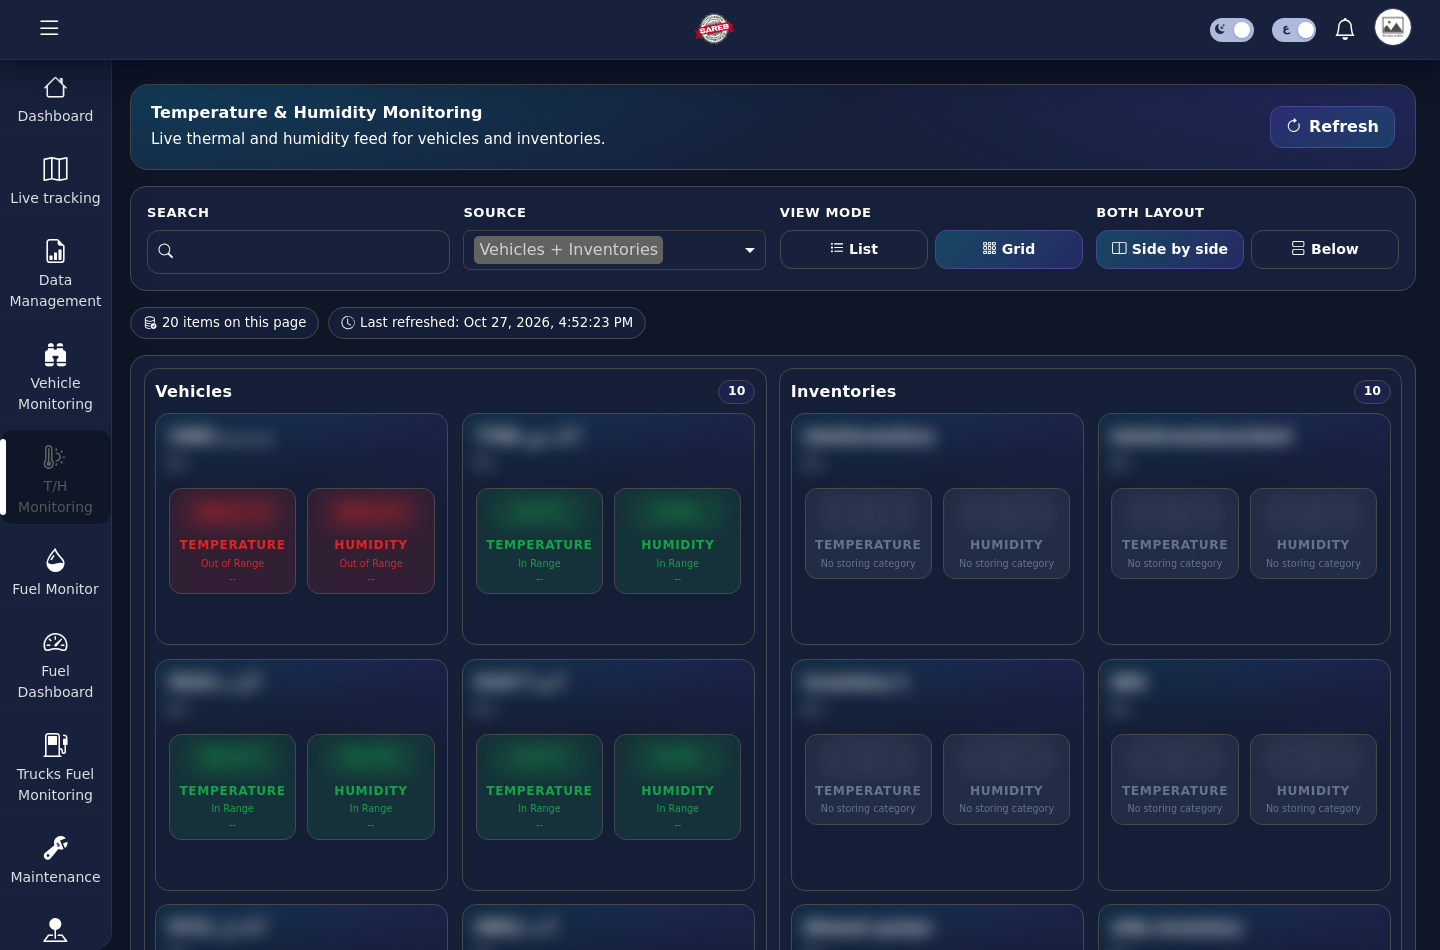
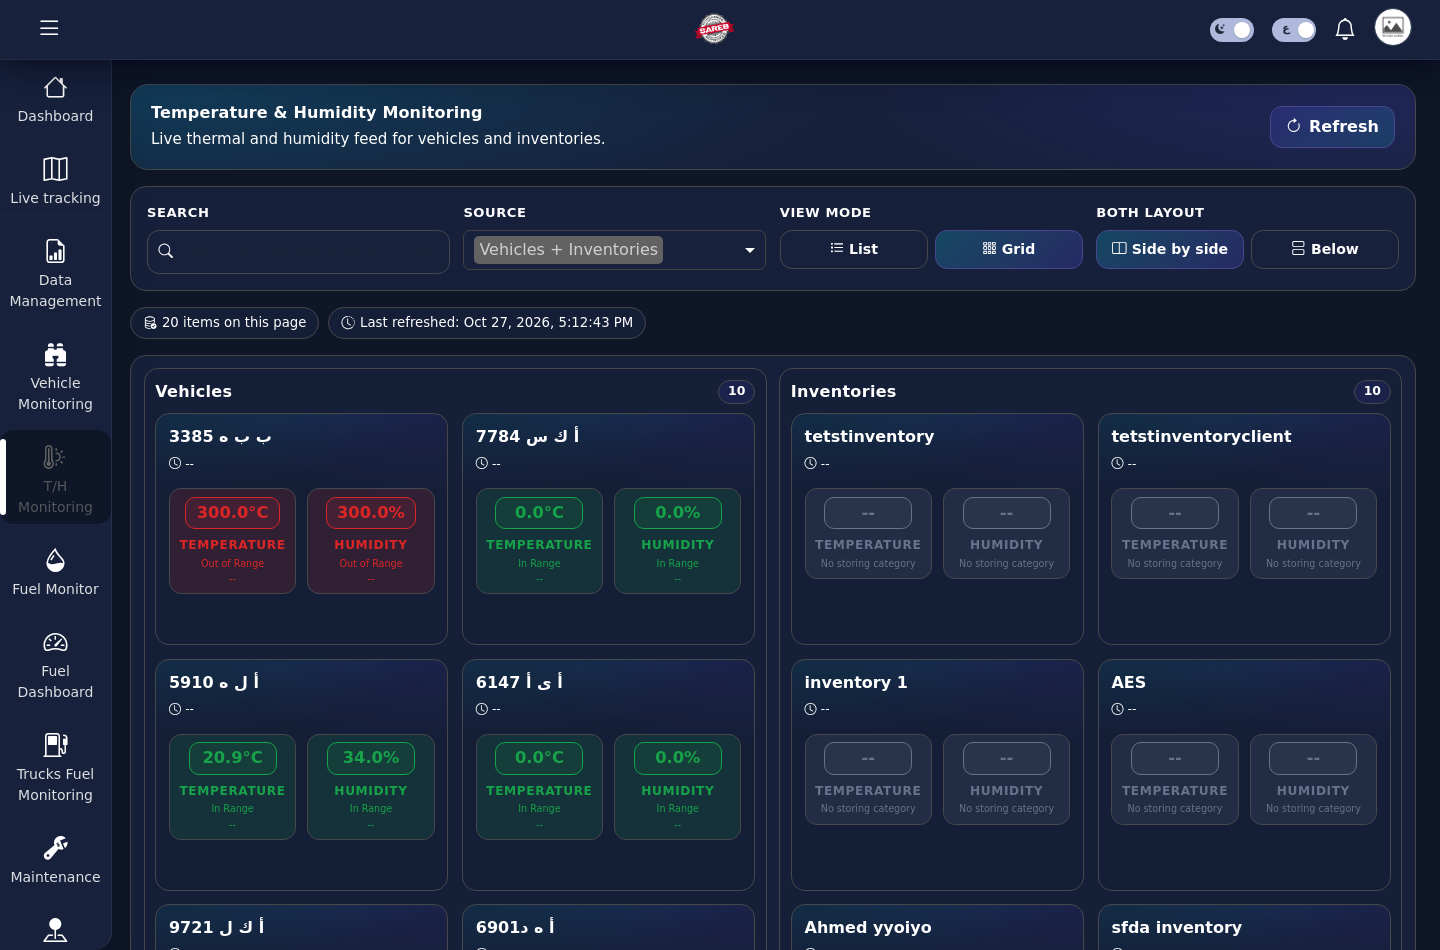
feat: add full product case studies

diff --git a/src/app/core/data/portfolio.data.ts b/src/app/core/data/portfolio.data.ts
@@ -23,6 +23,54 @@ export const SKILL_GROUPS: readonly SkillGroup[] = [
 
 export const PROJECTS: readonly Project[] = [
   {
+    slug: 'scoutifai-sports-management',
+    title: 'SCOUTIFAI',
+    eyebrow: 'Full product · Sports performance management',
+    summary:
+      'A complete role-based sports operations platform for managing players, teams, training, matches, wellness, medical records, and performance analytics.',
+    context:
+      'A full Angular product implementation with responsive administration workflows, role-specific navigation, bilingual presentation, reusable entity management, and documented demo accounts. The screenshot was captured from the locally running application with its built-in demo data.',
+    role: 'Frontend Developer · Full product implementation',
+    contributions: [
+      'Built a responsive role-based administration workspace in Angular',
+      'Implemented player, team, training, match, wellness, and medical workflows',
+      'Created reusable data-management components and permission-aware navigation',
+      'Added English and Arabic presentation with local and live data modes',
+    ],
+    technologies: ['Angular 19', 'TypeScript', 'RxJS', 'SCSS', 'i18n'],
+    visual: 'analytics',
+    confidential: false,
+    imageUrl: 'images/projects/scoutifai-dashboard.png',
+    imageAlt: 'SCOUTIFAI sports administration and performance dashboard',
+    imageCaption: 'Running Angular product · Built-in sports operations demo data',
+    accessLabel: 'Local full-product implementation',
+  },
+  {
+    slug: 'fuinco-admin-dashboard',
+    title: 'Fuinco Admin Dashboard',
+    eyebrow: 'Full-stack project · Content management',
+    summary:
+      'A standalone bilingual control center for managing website content, calls to action, feature sections, localization, and synchronized route information.',
+    context:
+      'I designed and built this complete project end to end: a React and TypeScript administration frontend connected to a FastAPI and SQLite backend with authentication, persisted content, and structured editing workflows.',
+    role: 'Full-stack Developer · End-to-end ownership',
+    contributions: [
+      'Architected and implemented the complete frontend and backend workflow',
+      'Built authenticated content editing with persistent SQLite storage',
+      'Implemented English and Arabic content controls plus light and dark themes',
+      'Created structured editors for site, hero, features, statistics, and routes',
+    ],
+    technologies: ['React', 'TypeScript', 'Vite', 'FastAPI', 'SQLite'],
+    visual: 'analytics',
+    confidential: true,
+    imageUrl: 'images/projects/fuinco-admin-dashboard.png',
+    imageAlt: 'Fuinco Admin Dashboard hero-content editor',
+    imageCaption: 'Running full-stack product · Complete end-to-end implementation',
+    privacyNote:
+      'This authenticated editor view contains managed website content only. Login credentials, authentication tokens, backend source, and database records are not published.',
+    accessLabel: 'Private full-stack project',
+  },
+  {
     slug: 'novadash',
     title: 'NovaDash',
     eyebrow: 'Personal concept · Angular admin template',
@@ -60,6 +108,9 @@ export const PROJECTS: readonly Project[] = [
     confidential: true,
     imageUrl: 'images/projects/sareb-platinum-dashboard.png',
     imageAlt: 'Sanitized Sareb Platinum fleet-management dashboard',
+    imageCaption: 'Authenticated product interface · Sensitive operational data redacted',
+    privacyNote:
+      'Operational identifiers are redacted, and no credentials, customer records, source code, or API details are published.',
   },
   {
     slug: 'skai-environmental-intelligence',
@@ -81,6 +132,9 @@ export const PROJECTS: readonly Project[] = [
     confidential: true,
     imageUrl: 'images/projects/skai-dashboard.png',
     imageAlt: 'SKAI environmental intelligence interface showing an industrial monitoring model',
+    imageCaption: 'Authenticated product interface · Demo monitoring environment',
+    privacyNote:
+      'The interface is shown in demo mode and contains no credentials, customer records, source code, or API details.',
   },
   {
     slug: 'food-drugs-logistics',
@@ -89,7 +143,7 @@ export const PROJECTS: readonly Project[] = [
     summary:
       'A logistics interface for tracking shipments and surfacing transport conditions that matter to time-sensitive operations.',
     context:
-      'Professional work completed at Fuinco. The screenshot was captured from an authenticated local build and sanitized to obscure operational details; access credentials and private data are not included.',
+      'Professional work completed at Fuinco. The screenshot was captured from an authenticated local build and shows the temperature and humidity monitoring grid with its real operational readings.',
     role: 'Frontend Developer',
     contributions: [
       'Implemented geofence and overspeed alert interfaces',
@@ -100,7 +154,10 @@ export const PROJECTS: readonly Project[] = [
     visual: 'logistics',
     confidential: true,
     imageUrl: 'images/projects/food-temperature-monitoring.png',
-    imageAlt: 'Sanitized Food and Drugs temperature and humidity monitoring interface',
+    imageAlt: 'Food and Drugs temperature and humidity monitoring interface with operational readings',
+    imageCaption: 'Authenticated product interface · Real monitoring records',
+    privacyNote:
+      'Real monitoring values are shown with project-owner approval. Credentials, authentication data, source code, and API details are not published.',
   },
   {
     slug: 'saudi-taxi-platform',
@@ -109,7 +166,7 @@ export const PROJECTS: readonly Project[] = [
     summary:
       'An operations interface for managing drivers, vehicles, ride activity, and trip information across a transportation platform.',
     context:
-      'Professional work completed at Fuinco. The screenshot was captured from an authenticated local build and sanitized to obscure operational details; private product data and credentials are excluded.',
+      'Professional work completed at Fuinco. The screenshot was captured from an authenticated local build and shows the Taxi Profile administration screen with real fare configuration records.',
     role: 'Frontend Developer',
     contributions: [
       'Developed driver and vehicle management modules',
@@ -119,7 +176,10 @@ export const PROJECTS: readonly Project[] = [
     technologies: ['Angular', 'Ionic', 'TypeScript'],
     visual: 'transport',
     confidential: true,
-    imageUrl: 'images/projects/taxi-live-tracking.png',
-    imageAlt: 'Sanitized Saudi Taxi live vehicle-tracking interface',
+    imageUrl: 'images/projects/taxi-profile-management.png',
+    imageAlt: 'Saudi Taxi fare-profile management interface with configuration records',
+    imageCaption: 'Authenticated product interface · Real fare configuration records',
+    privacyNote:
+      'Real fare configuration values are shown with project-owner approval. No driver identity, live vehicle location, credential, source code, or API detail is published.',
   },
 ];

diff --git a/src/app/features/projects/project-detail.component.ts b/src/app/features/projects/project-detail.component.ts
@@ -22,7 +22,7 @@ import { ProjectVisualComponent } from '../../shared/components/project-visual/p
             <div class="case-meta">
               <div><small>Role</small><strong>{{ project.role }}</strong></div>
               <div><small>Focus</small><strong>{{ project.technologies.slice(0, 3).join(' · ') }}</strong></div>
-              <div><small>Access</small><strong>{{ project.confidential ? 'Private professional product' : 'Portfolio concept' }}</strong></div>
+              <div><small>Access</small><strong>{{ project.accessLabel ?? (project.confidential ? 'Private professional product' : 'Portfolio concept') }}</strong></div>
             </div>
           </div>
         </header>
@@ -31,7 +31,7 @@ import { ProjectVisualComponent } from '../../shared/components/project-visual/p
           @if (project.imageUrl; as imageUrl) {
             <figure class="project-media case-project-media">
               <img [src]="imageUrl" [alt]="project.imageAlt ?? project.title" />
-              <figcaption>Authenticated local product build · Sensitive operational data redacted</figcaption>
+              <figcaption>{{ project.imageCaption ?? 'Verified product interface' }}</figcaption>
             </figure>
           } @else {
             <app-project-visual [type]="project.visual" [label]="project.title" />
@@ -47,7 +47,7 @@ import { ProjectVisualComponent } from '../../shared/components/project-visual/p
             <div class="case-prose">
               <p>{{ project.context }}</p>
               @if (project.confidential) {
-                <div class="privacy-note"><app-icon name="check" /><p><strong>Confidentiality respected.</strong> This verified product view was captured from a local build. Operational identifiers are redacted, and no credentials, customer records, source code, or API details are published.</p></div>
+                <div class="privacy-note"><app-icon name="check" /><p><strong>Confidentiality respected.</strong> {{ project.privacyNote ?? 'No credentials, customer records, source code, or API details are published.' }}</p></div>
               }
             </div>
           </div>

diff --git a/src/app/shared/components/project-card/project-card.component.ts b/src/app/shared/components/project-card/project-card.component.ts
@@ -12,7 +12,7 @@ import { ProjectVisualComponent } from '../project-visual/project-visual.compone
       @if (project().imageUrl; as imageUrl) {
         <figure class="project-media">
           <img [src]="imageUrl" [alt]="project().imageAlt ?? project().title" loading="lazy" />
-          <figcaption>Verified interface · Sensitive operational data redacted</figcaption>
+          <figcaption>{{ project().imageCaption ?? 'Verified product interface' }}</figcaption>
         </figure>
       } @else {
         <app-project-visual [type]="project().visual" [label]="project().title" />

diff --git a/src/app/core/models/portfolio.models.ts b/src/app/core/models/portfolio.models.ts
@@ -13,6 +13,9 @@ export interface Project {
   readonly confidential: boolean;
   readonly imageUrl?: string;
   readonly imageAlt?: string;
+  readonly imageCaption?: string;
+  readonly privacyNote?: string;
+  readonly accessLabel?: string;
   readonly githubUrl?: string;
   readonly liveUrl?: string;
 }

diff --git a/README.md b/README.md
@@ -12,7 +12,8 @@ A polished, responsive portfolio for Mahmoud Samir, an Angular Frontend Develope
 - Responsive, accessible navigation and keyboard-friendly interactions
 - Angular 20 standalone components with lazy-loaded routes
 - Data-driven skills, social links, and project case studies
-- Dedicated project routes with verified, privacy-safe product screenshots
+- Dedicated project routes with verified screenshots from running product builds
+- Full case studies for SCOUTIFAI and an end-to-end React/FastAPI admin dashboard
 - Reduced-motion support and semantic page structure
 - Downloadable CV and functional email, GitHub, and LinkedIn links
 - SEO, Open Graph, Twitter card, favicon, and robots metadata
@@ -78,7 +79,7 @@ npx vercel --prod
 
 ## Content and confidentiality
 
-Professional case studies summarize verified responsibilities from Mahmoud's CV. Product screenshots were captured from authenticated local builds and sanitized to hide sensitive operational details. No employer source code, credentials, endpoints, or customer records are included.
+Professional case studies summarize verified responsibilities from Mahmoud's CV. Product screenshots were captured from authenticated local builds. Approved operational values appear in the Food and Taxi views, while credentials, authentication data, source code, API details, driver identities, and live vehicle locations remain excluded.
 
 ## Contact
 
